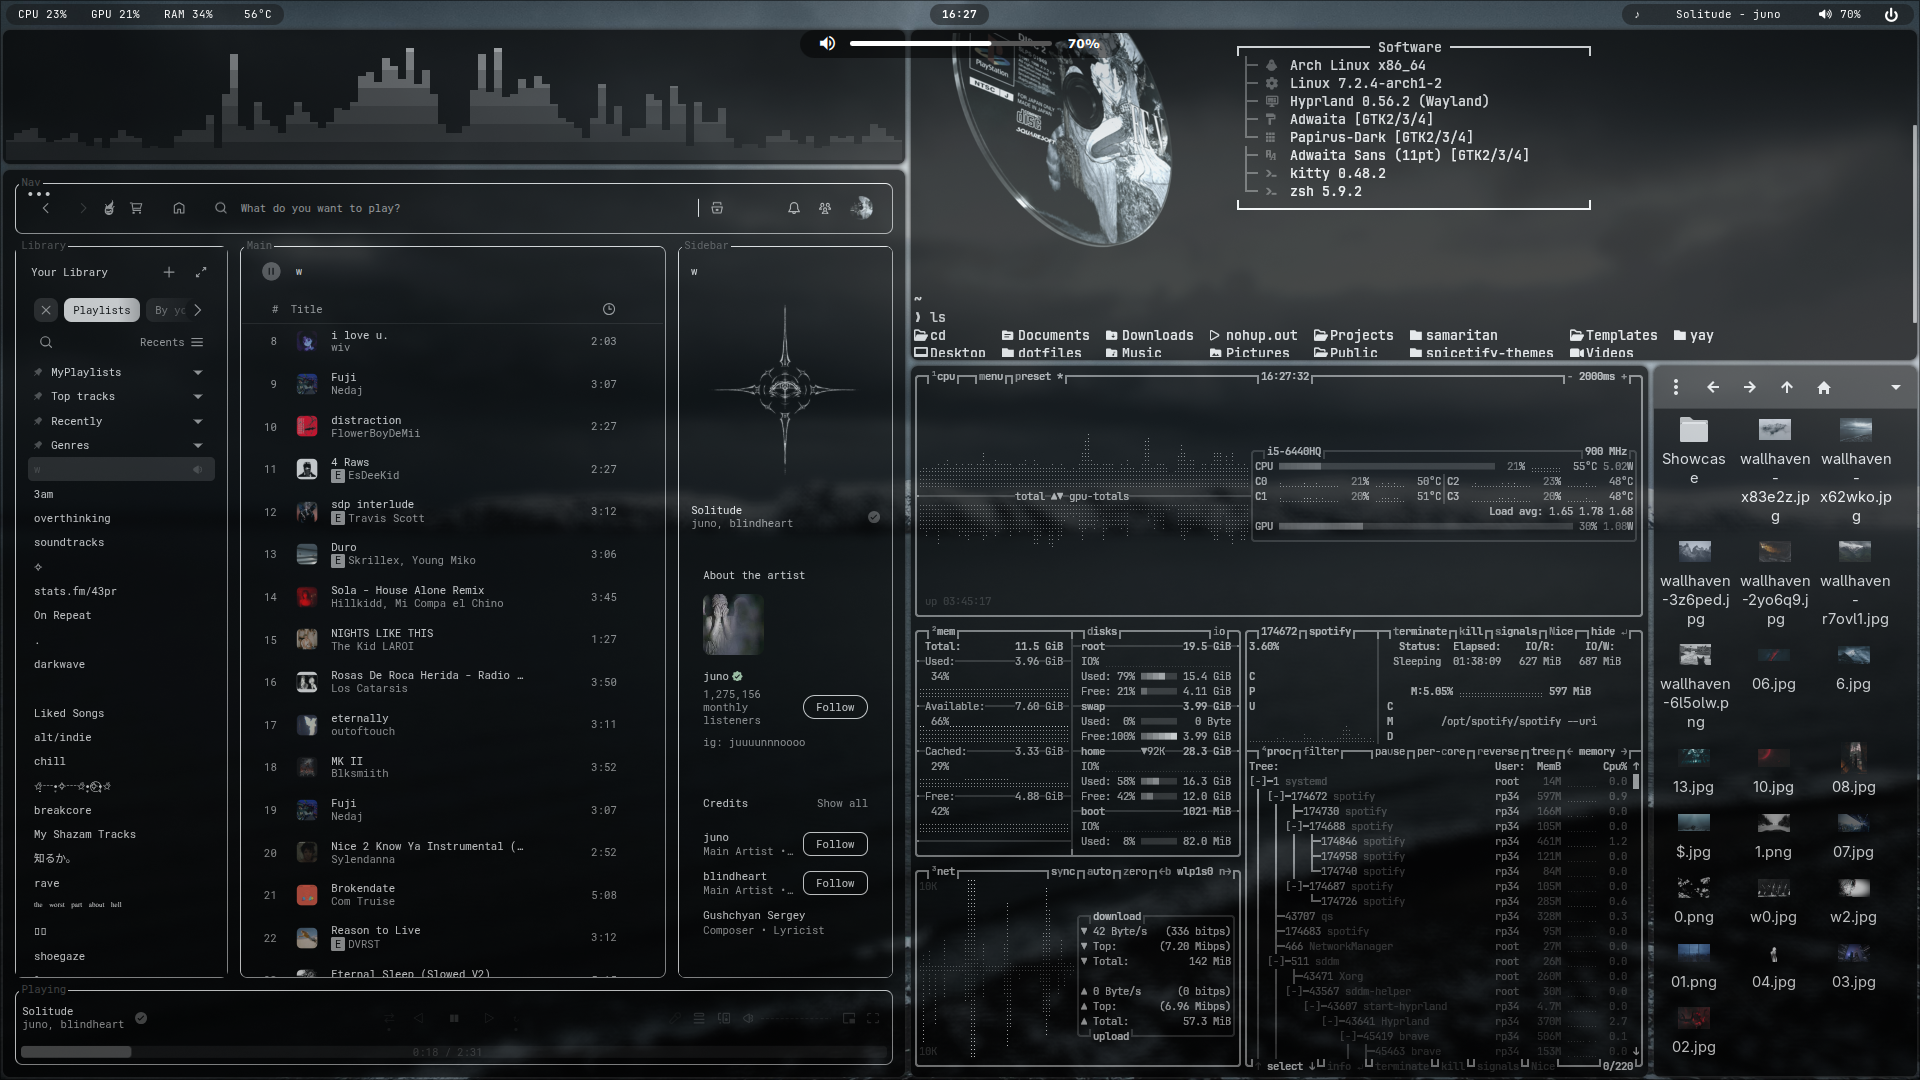
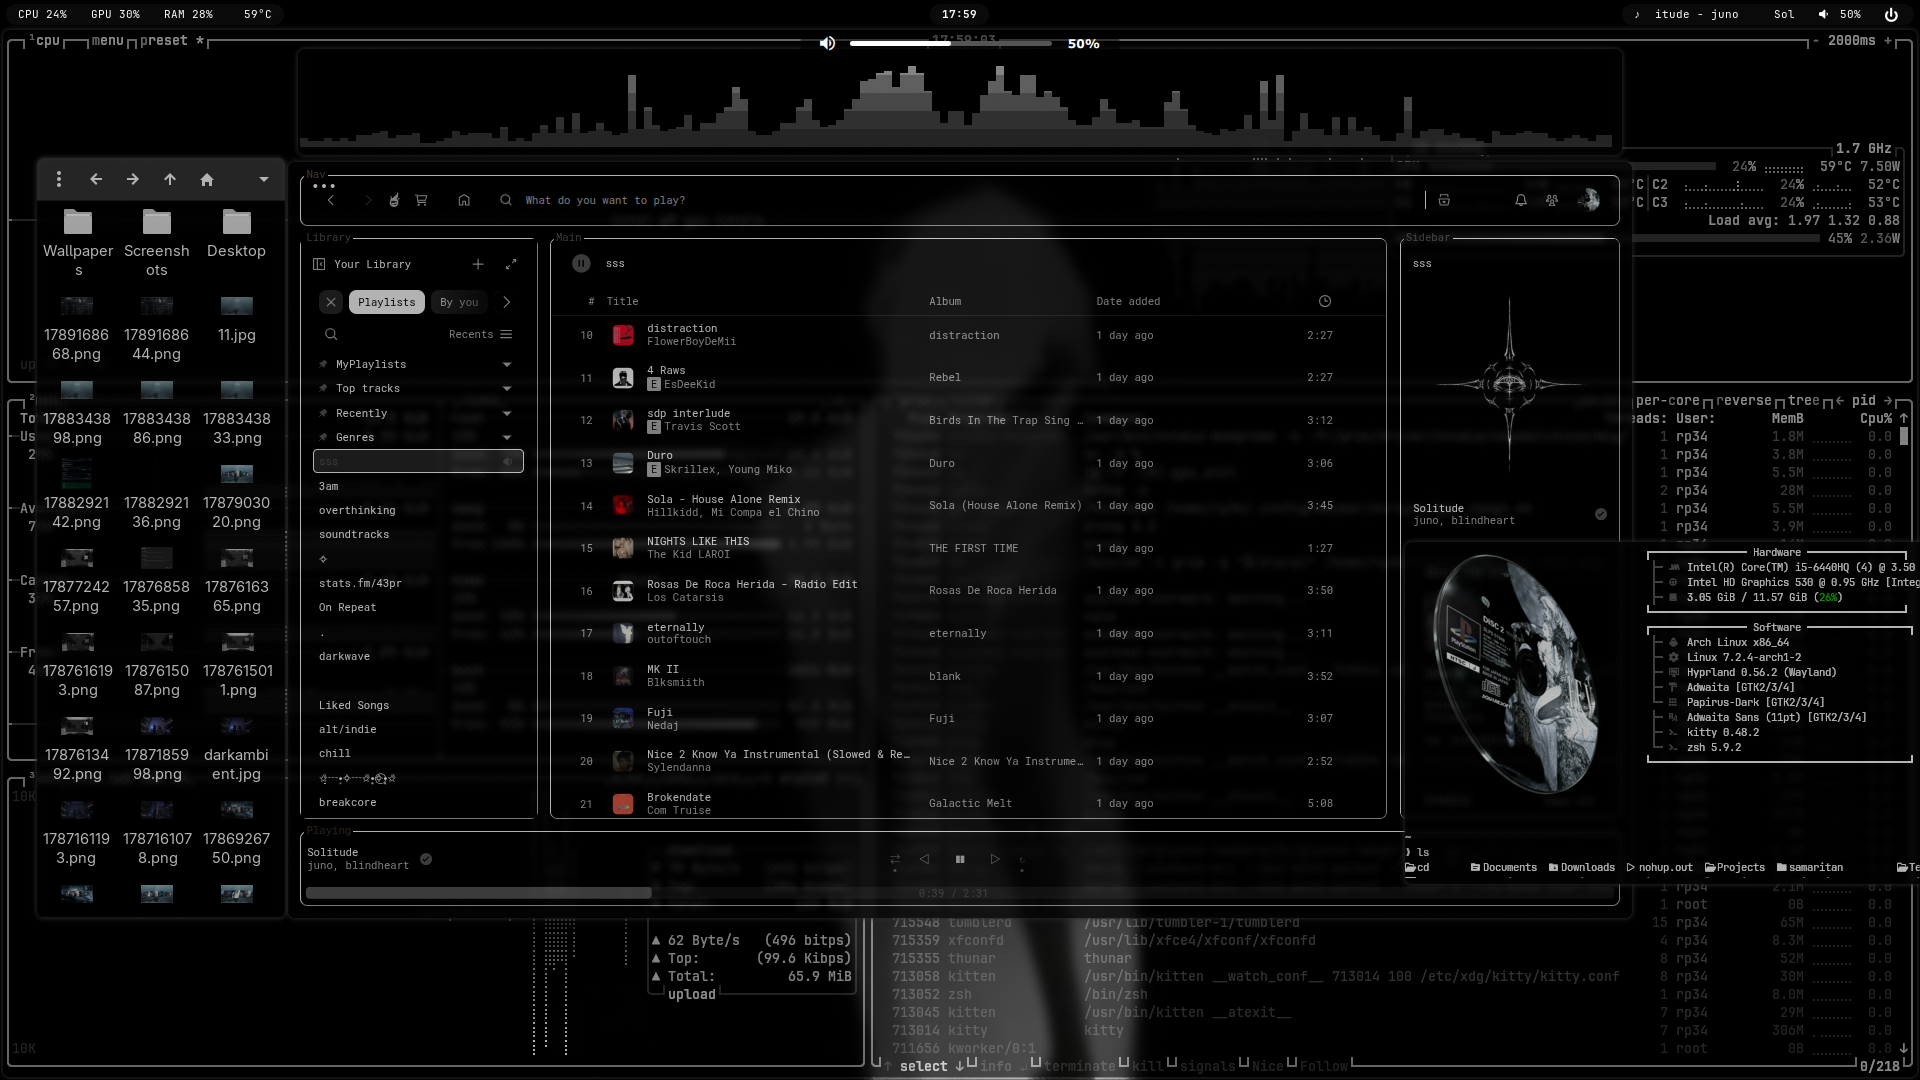
Update

diff --git a/README.md b/README.md
@@ -16,7 +16,7 @@ terminal     → eza icons + starship + zsh shell
 terminal     → fastfetch + autosuggestions + syntax-highlighting
 ```
 
-![](Wallpapers/Showcase/7.png)
+![](Wallpapers/Showcase/5.png)
 ![](Wallpapers/Showcase/4.png)
 ![](Wallpapers/Showcase/2.png)
 
